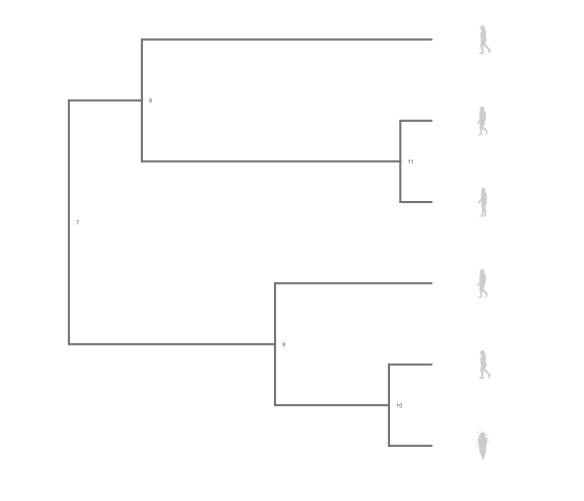
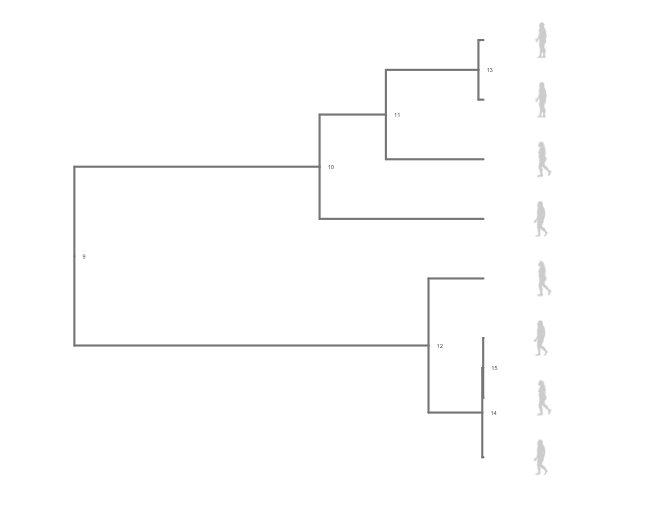
added quick start example

diff --git a/README.md b/README.md
@@ -17,9 +17,11 @@ install_github("fylopic", "schamberlain")
 library(fylopic)
 ```
 
+##### A quick example 
 ```r
-toget <- c("27356f15-3cf8-47e8-ab41-71c6260b2724", "bd88f674-6976-4cb2-a46e-e6a12a8ba463", "e547cd01-7dd1-495b-8239-52cf9971a609", "9c6af553-390c-4bdd-baeb-6992cbc540b1", "e547cd01-7dd1-495b-8239-52cf9971a609", "bd88f674-6976-4cb2-a46e-e6a12a8ba463")
-myobjs <- get_image(uuids = toget, size = "thumb") 
+searchres <- search_text(text = "Homo sapiens", options = "names")
+output <- search_images(uuid=searchres, options=c("pngFiles", "credit", "canonicalName"))
+myobjs <- get_image(uuids = output, size = "128") 
 make_phylo(pngobj=myobjs)
 ```
 
